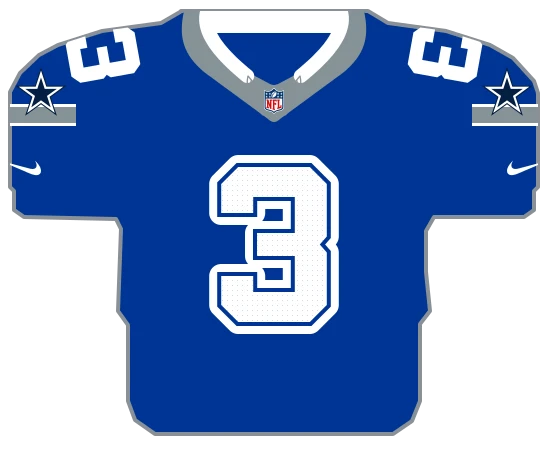
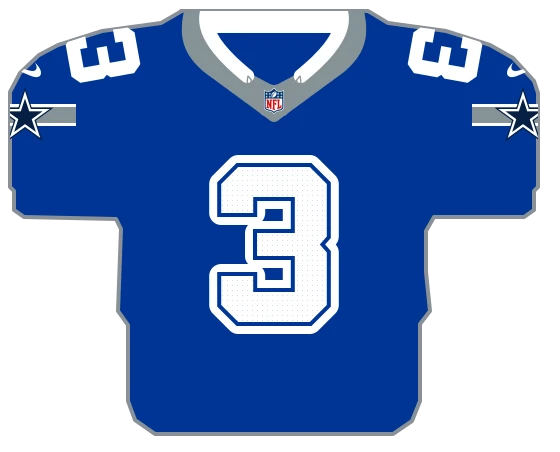
fix(uniforms): centre the Cowboys sleeve star on the stripe at the sleeve edge (DEP-707)

diff --git a/web/lib/uniforms/teams/cowboys/marks/construction.ts b/web/lib/uniforms/teams/cowboys/marks/construction.ts
@@ -17,22 +17,22 @@ export const COWBOYS_STAR_DECAL = placed(
 );
 
 // The sleeve star: a navy star inside a white keyline and a navy edge, drawn in mannequin space
-// for the right sleeve so its lower points sit over the sleeve stripe. The box is the sleeve
-// anchor's span, so the star places unchanged.
+// for the right sleeve, centred on the sleeve stripe at the outer edge, which trims it. The box is
+// the sleeve anchor's span, so the star places unchanged.
 export const COWBOYS_SLEEVE_STAR: Mark<'edge' | 'keyline' | 'star'> = {
   box: [490, 440, 564, 570],
   paths: [
     {
       slot: 'edge',
-      d: 'M527.0,439.0 L533.1,457.7 L552.7,457.7 L536.8,469.2 L542.9,487.8 L527.0,476.3 L511.1,487.8 L517.2,469.2 L501.3,457.7 L520.9,457.7 Z',
+      d: 'M543.0,459.0 L549.7,479.7 L571.5,479.7 L553.9,492.5 L560.6,513.3 L543.0,500.5 L525.4,513.3 L532.1,492.5 L514.5,479.7 L536.3,479.7 Z',
     },
     {
       slot: 'keyline',
-      d: 'M527.0,442.5 L532.3,458.7 L549.3,458.7 L535.5,468.8 L540.8,485.0 L527.0,475.0 L513.2,485.0 L518.5,468.8 L504.7,458.7 L521.7,458.7 Z',
+      d: 'M543.0,463.0 L548.8,481.0 L567.7,481.0 L552.4,492.1 L558.3,510.0 L543.0,498.9 L527.7,510.0 L533.6,492.1 L518.3,481.0 L537.2,481.0 Z',
     },
     {
       slot: 'star',
-      d: 'M527.0,449.5 L530.7,460.9 L542.7,460.9 L533.0,467.9 L536.7,479.3 L527.0,472.3 L517.3,479.3 L521.0,467.9 L511.3,460.9 L523.3,460.9 Z',
+      d: 'M543.0,470.5 L547.2,483.3 L560.6,483.3 L549.7,491.2 L553.9,504.0 L543.0,496.1 L532.1,504.0 L536.3,491.2 L525.4,483.3 L538.8,483.3 Z',
     },
   ],
 };

diff --git a/web/lib/uniforms/teams/cowboys/jerseys/navy.ts b/web/lib/uniforms/teams/cowboys/jerseys/navy.ts
@@ -4,7 +4,7 @@ import { COWBOYS_SLEEVE_STAR } from '../marks/construction';
 import { COWBOYS_NUMBER_THREE } from '../marks/numbers';
 
 // Navy body, a white-over-silver neck band and rounded collar, a white-edged silver sleeve band
-// under the sleeve star, white numerals.
+// with the sleeve star over its outer end, white numerals.
 export const COWBOYS_JERSEY_NAVY: CompleteJerseySpec = {
   body: 'navy',
   collar: {

diff --git a/web/lib/uniforms/teams/__tests__/catalogs.test.ts b/web/lib/uniforms/teams/__tests__/catalogs.test.ts
@@ -77,7 +77,6 @@ describe('pants branding in catalog combinations', () => {
     const outliers: Record<string, string[]> = {
       bengals: ['home', 'away', 'orange-alt'],
       chargers: ['home', 'away', 'powder-blue', 'charger-power', 'super-chargers'],
-      cowboys: ['home'],
       rams: ['home', 'away', 'rivalries-2025'],
     };
     for (const { catalog } of getAllTeamCatalogs()) {

diff --git a/web/lib/uniforms/teams/cowboys/catalog.ts b/web/lib/uniforms/teams/cowboys/catalog.ts
@@ -9,7 +9,6 @@ export const COWBOYS_CATALOG: TeamCatalog = {
       id: 'cowboys-home-1964',
       slug: 'home',
       sleeveNike: 'white',
-      sleeveNikePlacement: 'lower',
       name: 'Home',
       kind: 'home',
       jersey: 'navy',
